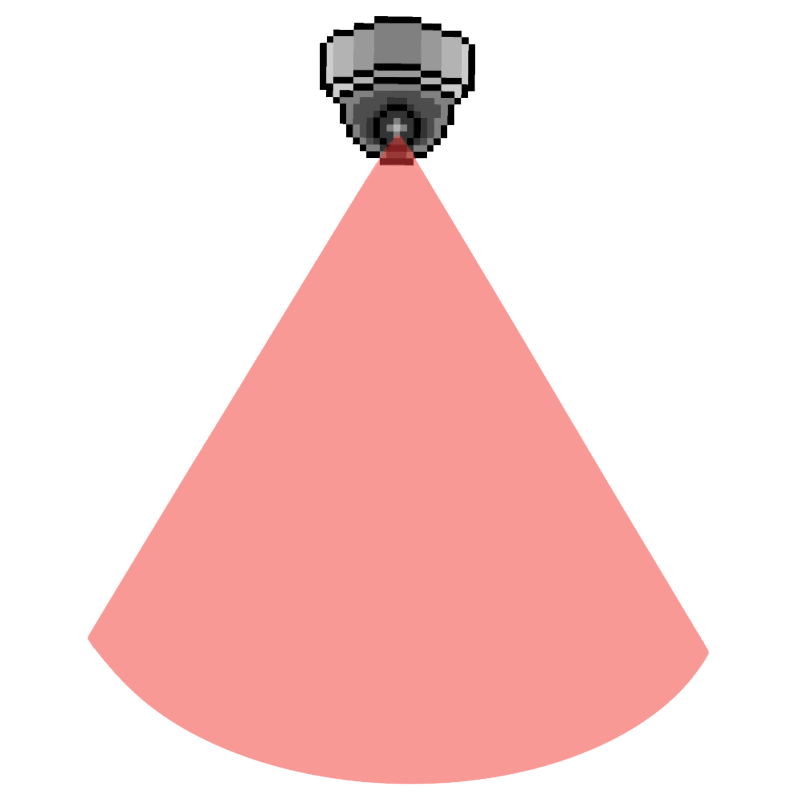
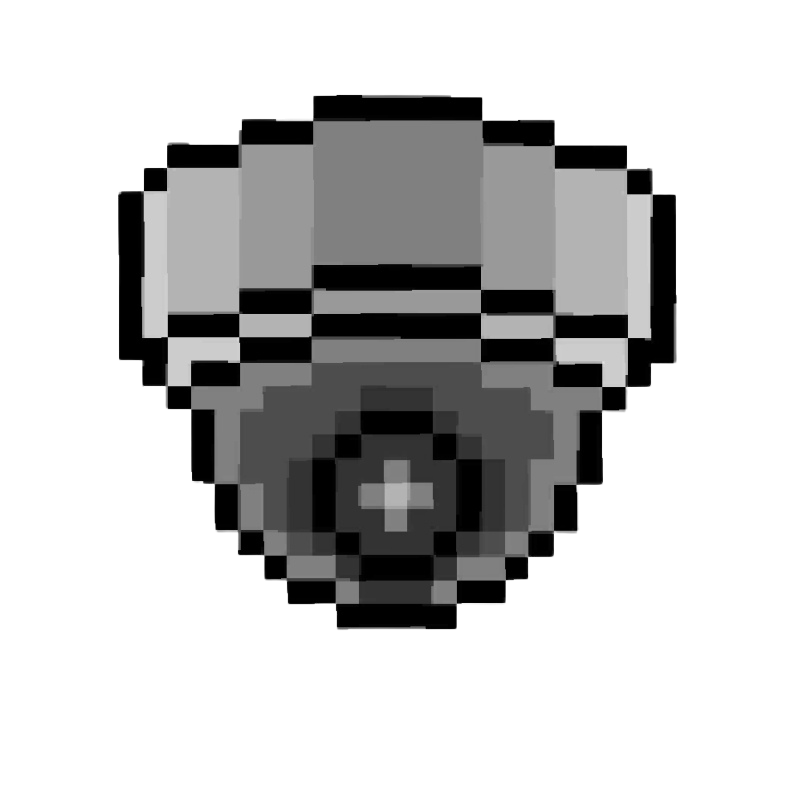
end screen, total time used etc

diff --git a/Label.java b/Label.java
@@ -1,0 +1,94 @@
+import greenfoot.*;  // (World, Actor, GreenfootImage, Greenfoot and MouseInfo)
+
+
+/**
+ * A Label class that allows you to display a textual value on screen.
+ * 
+ * The Label is an actor, so you will need to create it, and then add it to the world
+ * in Greenfoot.  If you keep a reference to the Label then you can change the text it
+ * displays.  
+ *
+ * @author Amjad Altadmri 
+ * @version 1.1
+ */
+public class Label extends Actor
+{
+    private String value;
+    private int fontSize;
+    private Color lineColor = Color.BLACK;
+    private Color fillColor = Color.WHITE;
+    
+    private static final Color transparent = new Color(0,0,0,0);
+
+    
+    /**
+     * Create a new label, initialise it with the int value to be shown and the font size 
+     */
+    public Label(int value, int fontSize)
+    {
+        this(Integer.toString(value), fontSize);
+    }
+    
+    /**
+     * Create a new label, initialise it with the needed text and the font size 
+     */
+    public Label(String value, int fontSize)
+    {
+        this.value = value;
+        this.fontSize = fontSize;
+        updateImage();
+    }
+
+    /**
+     * Sets the value  as text
+     * 
+     * @param value the text to be show
+     */
+    public void setValue(String value)
+    {
+        this.value = value;
+        updateImage();
+    }
+    
+    /**
+     * Sets the value as integer
+     * 
+     * @param value the value to be show
+     */
+    public void setValue(int value)
+    {
+        this.value = Integer.toString(value);
+        updateImage();
+    }
+    
+    /**
+     * Sets the line color of the text
+     * 
+     * @param lineColor the line color of the text
+     */
+    public void setLineColor(Color lineColor)
+    {
+        this.lineColor = lineColor;
+        updateImage();
+    }
+    
+    /**
+     * Sets the fill color of the text
+     * 
+     * @param fillColor the fill color of the text
+     */
+    public void setFillColor(Color fillColor)
+    {
+        this.fillColor = fillColor;
+        updateImage();
+    }
+    
+
+    /**
+     * Update the image on screen to show the current value.
+     */
+    private void updateImage()
+    {
+        setImage(new GreenfootImage(value, fontSize, fillColor, transparent, lineColor));
+    }
+}

diff --git a/Level3.java b/Level3.java
@@ -5,7 +5,7 @@ public class Level3 extends GameWorld
 {
     int yellowLaserTimer = 0;
     int redLaserTimer = 0;
-    private int timeLeft = 180;
+    private int timeLeft = 120;
     
     private SimpleTimer countDown = new SimpleTimer();
     
@@ -49,8 +49,10 @@ public class Level3 extends GameWorld
         addObject(exit, 338, 66);
         
         //camera
-        Camera cam1 = new Camera();
-        addObject(cam1, 570, 150);
+        Camera c = new Camera();
+        addObject(c, 700, 80);
+        CameraVision v = new CameraVision();
+        addObject(v, 700, 160);
     }
     
     public void act()
@@ -58,7 +60,7 @@ public class Level3 extends GameWorld
         mouseLocation();
         yellowLaserTimer++;
         
-        if(yellowLaserTimer >= 100)
+        if(yellowLaserTimer >= 130)
         {
             shootLaser();
             yellowLaserTimer = 0;
@@ -68,16 +70,23 @@ public class Level3 extends GameWorld
         showText("Lives: " + thief.getLives(), 50, 15);
         
         redLaserTimer++;
-        if(redLaserTimer >= 300)
+        if(redLaserTimer >= 350)
         {
             createRedLaser();
+            createVision();
             redLaserTimer = 0;
+            
         }
         
         updateCountDown();
         
     }
     
+    public void createVision()
+    {
+        CameraVision v1 = new CameraVision();
+        addObject(v1, 700, 160);
+    }
         public void shootLaser()
     {
         YellowLaser laser = new YellowLaser();
@@ -92,14 +101,10 @@ public class Level3 extends GameWorld
     public void createRedLaser()
     {
         RedLaser r1 = new RedLaser(20, 200);
-        addObject(r1, 255,424);
+        addObject(r1, 255,504);
         
-        RedLaser r2 = new RedLaser(20, 450);
-        addObject(r2, 590, 350);
-        
-        RedLaser r3 = new RedLaser(20, 450);
-        addObject(r3, 680, 350);
-        
+        RedLaser r2 = new RedLaser(20, 200);
+        addObject(r2, 440, 504);
         
     }
     
@@ -120,5 +125,8 @@ public class Level3 extends GameWorld
             }
         }
     }
-    
+    public void nextLevel()
+    {
+        Greenfoot.setWorld(new EndScreen());
+    }
 }

diff --git a/EndScreen.java b/EndScreen.java
@@ -1,0 +1,25 @@
+import greenfoot.*;  // (World, Actor, GreenfootImage, Greenfoot and MouseInfo)
+
+
+public class EndScreen extends World
+{
+
+    public EndScreen()
+    {    
+        // Create a new world with 600x400 cells with a cell size of 1x1 pixels.
+        super(800, 600, 1); 
+        YouWin win = new YouWin();
+        addObject(win, 400, 300);
+        
+        long endTime = System.currentTimeMillis();
+
+        long totalTime = endTime - GameWorld.startTime;
+
+        long seconds = totalTime / 1000;
+        
+        int min = (int) (seconds/ 60);
+        int sec = (int) (seconds % 60);
+        Label timeUsed = new Label("Time Used: " + min + ":" + sec, 40);
+        addObject(timeUsed, 400, 190);
+    }
+}

diff --git a/CameraVision.java b/CameraVision.java
@@ -1,0 +1,24 @@
+import greenfoot.*;
+
+public class CameraVision extends Actor
+{
+    private int timer = 0;
+    public CameraVision()
+    {
+        GreenfootImage v = new GreenfootImage("vision.png");
+        v.scale(250,250);
+        setImage(v);
+    }
+    
+    public void act()
+    {
+        timer++;
+        
+        if(timer >= 240)
+        {
+            getWorld().removeObject(this);
+        }
+    }
+    }
+
+   

diff --git a/TitleScreen.java b/TitleScreen.java
@@ -1,0 +1,21 @@
+import greenfoot.*;  // (World, Actor, GreenfootImage, Greenfoot and MouseInfo)
+
+/**
+ * Write a description of class TitleScreen here.
+ * 
+ * @author (your name) 
+ * @version (a version number or a date)
+ */
+public class TitleScreen extends World
+{
+
+    /**
+     * Constructor for objects of class TitleScreen.
+     * 
+     */
+    public TitleScreen()
+    {    
+        // Create a new world with 600x400 cells with a cell size of 1x1 pixels.
+        super(600, 400, 1); 
+    }
+}

diff --git a/Thief.java b/Thief.java
@@ -58,6 +58,7 @@ public class Thief extends Actor
         checkLaser();
         checkExit();
         checkSwitch();
+        checkFakeSwitch();
     }
     
     int imageIndex = 0;
@@ -75,7 +76,20 @@ public class Thief extends Actor
             imageIndex = 0;
         }
     }
-    
+    public void checkFakeSwitch()
+    {
+        if(isTouching(FakeSwitch.class))
+        {
+            loseLife();
+        }
+    }
+    public void checkVision()
+    {
+        if(isTouching(CameraVision.class))
+        {
+            loseLife();
+        }
+    }
     public void movement()
     {
         int oldX = getX();

diff --git a/GameWorld.java b/GameWorld.java
@@ -8,11 +8,8 @@ import greenfoot.*;  // (World, Actor, GreenfootImage, Greenfoot and MouseInfo)
  */
 public class GameWorld extends World
 {
-
-    /**
-     * Constructor for objects of class GameWorld.
-     * 
-     */
+    public static long startTime;
+    
     public GameWorld()
     {    
         // Create a new world with 600x400 cells with a cell size of 1x1 pixels.
@@ -38,7 +35,13 @@ public class GameWorld extends World
     {
         
     }
-    
+    public void startTimer()
+     {
+         if(startTime == 0)
+         {
+             startTime = System.currentTimeMillis();
+         }
+     }
     public void mouseLocation()
     {
         MouseInfo mouse = Greenfoot.getMouseInfo();

diff --git a/Camera.java b/Camera.java
@@ -8,13 +8,13 @@ public class Camera extends Actor
     public Camera()
     {
         GreenfootImage cam = new GreenfootImage("camera.png");
-        cam.scale(300,300);
-        cam.setTransparency(200);
+        cam.scale(70,70);
+        
         setImage(cam);
     }
     public void act()
     {
-        rotate();
+        
     }
     
     public void rotate()

diff --git a/Level2.java b/Level2.java
@@ -82,7 +82,10 @@ public class Level2 extends GameWorld
         addObject(laser, 240, 142);
         laser.setRotation(90);
     }
-    
+    public void nextLevel()
+    {
+        Greenfoot.setWorld(new Level3());
+    }
     public void updateCountDown(){
         if(countDown.millisElapsed() >= 1000)
         {

diff --git a/youWin.java b/youWin.java
@@ -6,14 +6,14 @@ import greenfoot.*;  // (World, Actor, GreenfootImage, Greenfoot and MouseInfo)
  * @author (your name) 
  * @version (a version number or a date)
  */
-public class youWin extends Actor
+public class YouWin extends Actor
 {
     /**
      * Act - do whatever the youWin wants to do. This method is called whenever
      * the 'Act' or 'Run' button gets pressed in the environment.
      */
     
-    public youWin()
+    public YouWin()
     {
         GreenfootImage win = new GreenfootImage("youWin.png");
         win.scale(300,300);

diff --git a/Level1.java b/Level1.java
@@ -50,6 +50,8 @@ public class Level1 extends GameWorld {
         Wall wall = new Wall();
         wall.getImage().scale(656,23);
         addObject(wall, 328, 62);
+        
+        startTimer();
     }
  
     public void act()